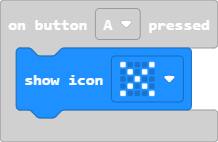
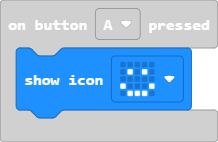
Update main.blocks, main.ts

Changed region(s): [[0.5505, 0.5352, 0.7156, 0.7042], [0.6606, 0.4225, 0.7156, 0.4789], [0.5505, 0.4225, 0.578, 0.4789]]

diff --git a/main.ts b/main.ts
@@ -1,5 +1,5 @@
 input.onButtonPressed(Button.A, function () {
-    basic.showIcon(IconNames.No)
+    basic.showIcon(IconNames.Happy)
 })
 input.onButtonPressed(Button.B, function () {
     basic.showIcon(IconNames.Angry)
